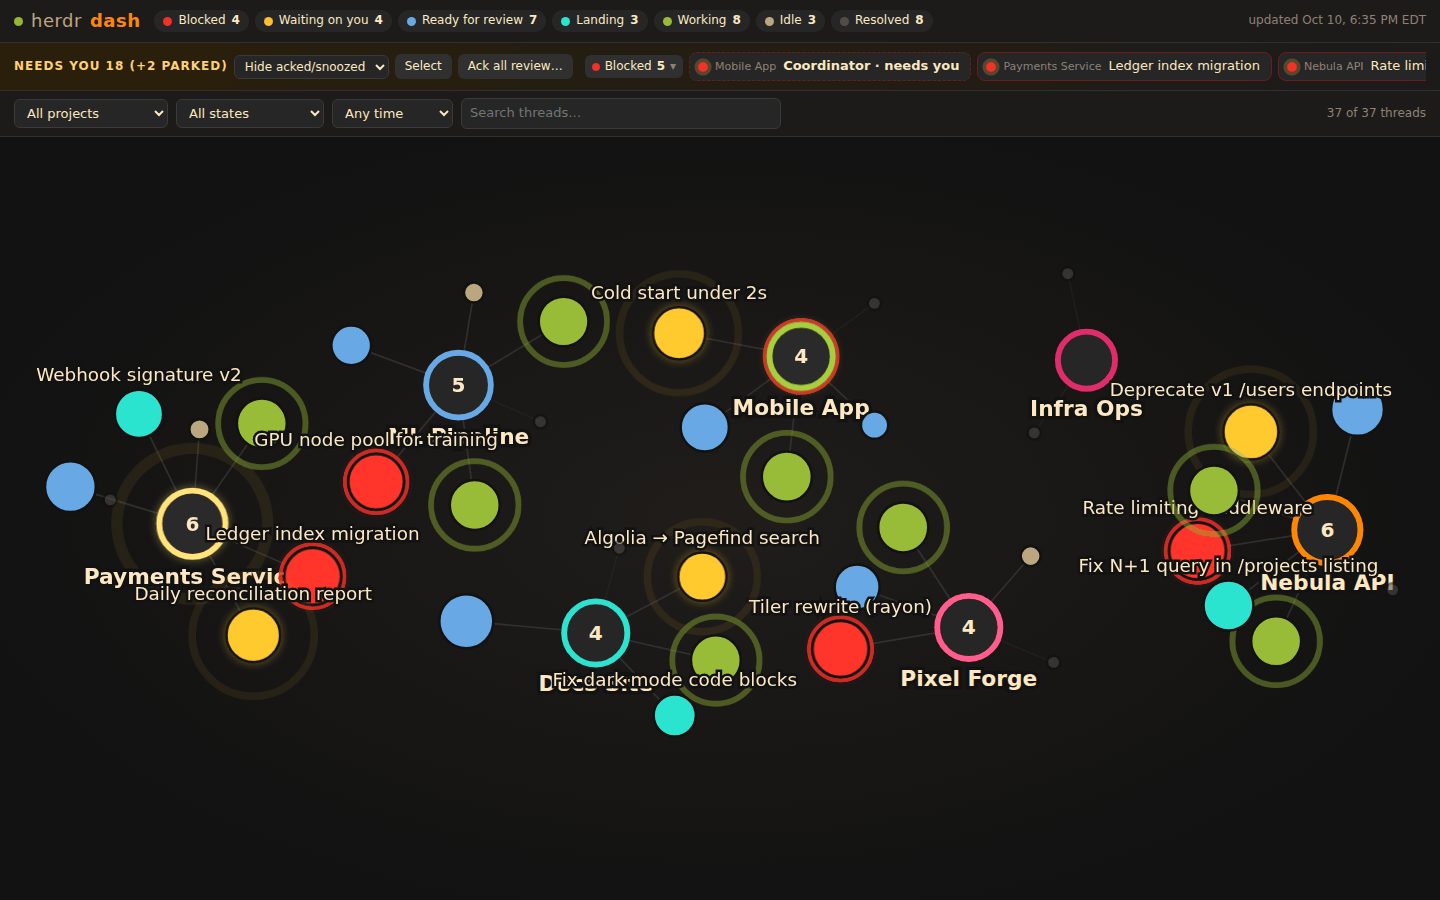
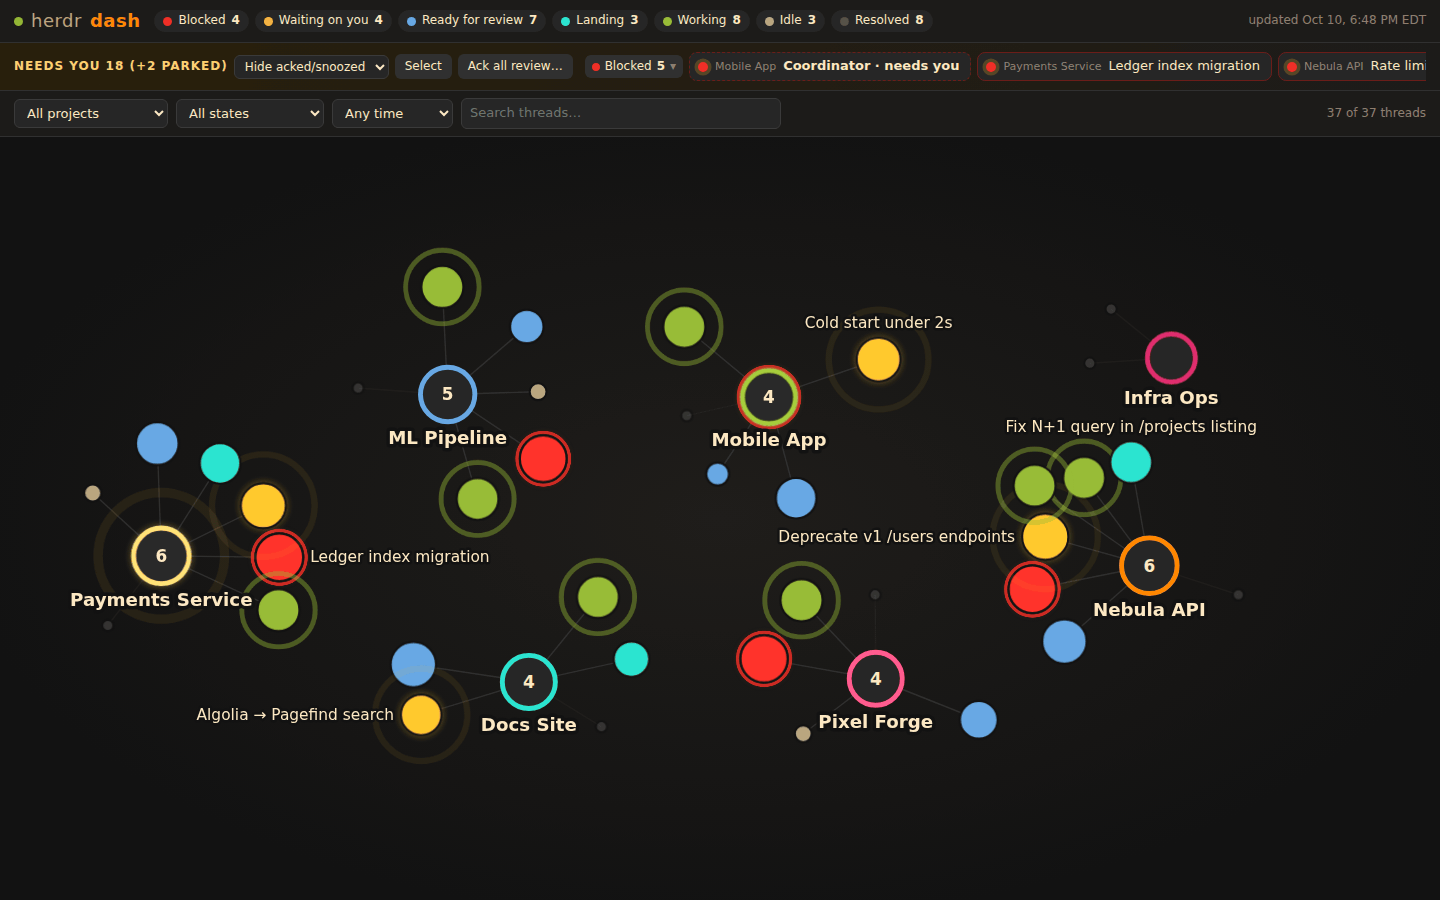
Graph labels: project names on top and never covered, few thread labels without collisions, more room between clusters

diff --git a/static/app.js b/static/app.js
@@ -78,6 +78,10 @@
   const root = svg.append("g");
   const linkG = root.append("g");
   const nodeG = root.append("g");
+  // Labels sit above every node; project names above thread labels.
+  const tlabelG = root.append("g").attr("class", "labels threads");
+  const hlabelG = root.append("g").attr("class", "labels hubs");
+  let hovered = null;
   let userZoomed = false;
   const zoom = d3.zoom().scaleExtent([0.15, 4]).on("zoom", (e) => {
     if (e.sourceEvent) userZoomed = true;
@@ -88,8 +92,11 @@
   const nodes = new Map(); // id -> node object, kept across updates for stable positions
   const sim = d3.forceSimulation()
     .force("link", d3.forceLink().id((d) => d.id).distance((l) => 34 + l.target.r * 2.2).strength(0.6))
-    .force("charge", d3.forceManyBody().strength((d) => (d.hub ? -420 : -38)))
-    .force("collide", d3.forceCollide().radius((d) => d.r + (d.hub ? 14 : 3)))
+    // A hub pushes harder the bigger its cluster, and harder still when
+    // there are few projects, so clusters do not overlap.
+    .force("charge", d3.forceManyBody().strength((d) => (d.hub ? -(320 + 45 * (d.size || 0)) * (hubCount() <= 8 ? 1.3 : 1) : -38)))
+    .force("collide", d3.forceCollide().radius((d) => (d.hub ? Math.max(d.r + 14, (d.lw || 0) * 0.8) : d.r + 3)))
+    .force("labelRoom", labelRoom())
     .force("x", d3.forceX().strength(0.045))
     .force("y", d3.forceY().strength(0.06))
     .alphaDecay(0.035)
@@ -103,10 +110,13 @@
     const ns = [...nodes.values()];
     const pad = 40;
     // A project's name can be wider than its hub: keep the whole name in view.
-    nodeSel.select("text.name").each(function (d) { d.lw = this.getComputedTextLength() / 2; });
     const half = (d) => Math.max(d.r, (d.hub && d.lw) || 0);
-    const x0 = d3.min(ns, (d) => d.x - half(d)) - pad, x1 = d3.max(ns, (d) => d.x + half(d)) + pad;
-    const y0 = d3.min(ns, (d) => d.y - d.r) - pad, y1 = d3.max(ns, (d) => d.y + d.r + 18) + pad;
+    // Thread labels too, so none is cut at the edge.
+    const labs = ns.filter((d) => d.lab).map((d) => d.lab);
+    const x0 = Math.min(d3.min(ns, (d) => d.x - half(d)), d3.min(labs, (b) => b.l) ?? Infinity) - pad;
+    const x1 = Math.max(d3.max(ns, (d) => d.x + half(d)), d3.max(labs, (b) => b.r) ?? -Infinity) + pad;
+    const y0 = Math.min(d3.min(ns, (d) => d.y - d.r), d3.min(labs, (b) => b.t) ?? Infinity) - pad;
+    const y1 = Math.max(d3.max(ns, (d) => d.y + d.r + 18), d3.max(labs, (b) => b.b) ?? -Infinity) + pad;
     const r = svg.node().getBoundingClientRect();
     const k = Math.min(2.2, r.width / (x1 - x0), r.height / (y1 - y0));
     const t = d3.zoomIdentity.scale(k).translate(-(x0 + x1) / 2, -(y0 + y1) / 2);
@@ -144,6 +154,79 @@
 
   let linkSel = linkG.selectAll("line");
   let nodeSel = nodeG.selectAll("g.node");
+  let hlabelSel = hlabelG.selectAll("text");
+  let tlabelSel = tlabelG.selectAll("text");
+  const hubCount = () => hlabelSel.size();
+
+  // ---------------------------------------------------------------- labels
+  // Boxes in graph units: a node's core, and a hub's name under it.
+  const HUB_FONT = 13, LABEL_FONT = 11;
+  const nodeBox = (n, pad = 0) => ({ l: n.x - n.r - pad, r: n.x + n.r + pad, t: n.y - n.r - pad, b: n.y + n.r + pad });
+  const hubBox = (h, pad = 0) => ({ l: h.x - (h.lw || 30) - pad, r: h.x + (h.lw || 30) + pad, t: h.y + h.r + 3 - pad, b: h.y + h.r + 4 + HUB_FONT * 1.3 + pad });
+  const overlaps = (a, b) => a.l < b.r && b.l < a.r && a.t < b.b && b.t < a.b;
+
+  // A force that keeps every other node, and other hubs' names, off a hub's
+  // name: project names stay readable however the clusters settle.
+  function labelRoom() {
+    let ns = [];
+    // Push a and b apart along the axis where they overlap least.
+    function part(a, ba, b, bb, share) {
+      const dx = Math.min(ba.r - bb.l, bb.r - ba.l), dy = Math.min(ba.b - bb.t, bb.b - ba.t);
+      if (dx <= 0 || dy <= 0) return;
+      const sx = (ba.l + ba.r) / 2 < (bb.l + bb.r) / 2 ? -1 : 1, sy = (ba.t + ba.b) / 2 < (bb.t + bb.b) / 2 ? -1 : 1;
+      const [mx, my] = dx < dy ? [sx * dx, 0] : [0, sy * dy];
+      a.vx += mx * share * 0.5; a.vy += my * share * 0.5;
+      b.vx -= mx * (1 - share) * 0.5; b.vy -= my * (1 - share) * 0.5;
+    }
+    function force() {
+      for (const h of ns) {
+        if (!h.hub) continue;
+        const hb = hubBox(h, 3);
+        for (const n of ns) {
+          if (n === h) continue;
+          part(h, hb, n, nodeBox(n, 2), n.hub ? 0.5 : 0.15);
+          if (n.hub && n.id > h.id) part(h, hb, n, hubBox(n, 3), 0.5);
+        }
+      }
+    }
+    force.initialize = (n) => (ns = n);
+    return force;
+  }
+
+  // Thread labels: the selected and hovered threads, then the few that need
+  // you most (blocked, waiting, landing). Each takes the first free spot
+  // around its node (above, below, right, left) that covers no node, no
+  // project name and no other label; with no free spot it is left out.
+  const MAX_LABELS = 8;
+  function placeLabels() {
+    const all = [...nodes.values()];
+    const taken = all.filter((n) => n.hub).map((h) => hubBox(h, 2));
+    const boxes = all.map((n) => [n, nodeBox(n, 2)]);
+    const forced = (n) => n.id === selected || n.id === hovered;
+    const rank = (n) => (forced(n) ? -1 : ORDER.indexOf(n.t.state));
+    const cands = all.filter((n) => !n.hub && n.t && (forced(n) || (n.t.needs_you && n.t.state !== "review")))
+      .sort((a, b) => rank(a) - rank(b) || ageSec(a.t) - ageSec(b.t));
+    for (const n of all) n.lab = null;
+    let shown = 0;
+    for (const n of cands) {
+      if (!forced(n) && shown >= MAX_LABELS) break;
+      const w = (n.tw || 60) + 4, h = LABEL_FONT * 1.35, g = 3;
+      const spots = [
+        { l: n.x - w / 2, r: n.x + w / 2, t: n.y - n.r - g - h, b: n.y - n.r - g },
+        { l: n.x - w / 2, r: n.x + w / 2, t: n.y + n.r + g, b: n.y + n.r + g + h },
+        { l: n.x + n.r + g, r: n.x + n.r + g + w, t: n.y - h / 2, b: n.y + h / 2 },
+        { l: n.x - n.r - g - w, r: n.x - n.r - g, t: n.y - h / 2, b: n.y + h / 2 },
+      ];
+      const free = (sp) => !taken.some((b) => overlaps(sp, b)) && !boxes.some(([m, b]) => m !== n && overlaps(sp, b));
+      const sp = spots.find(free) || (forced(n) ? spots[0] : null);
+      if (!sp) continue;
+      taken.push(sp);
+      n.lab = sp;
+      if (!forced(n)) shown++;
+    }
+    tlabelSel.classed("off", (d) => !d.lab)
+      .attr("x", (d) => (d.lab ? (d.lab.l + d.lab.r) / 2 : d.x)).attr("y", (d) => (d.lab ? d.lab.b - LABEL_FONT * 0.35 : d.y));
+  }
 
   function renderGraph(threads) {
     const projects = state.projects.filter((p) => !filters.project || p.slug === filters.project);
@@ -156,7 +239,7 @@
       const id = "hub:" + p.slug;
       const n = nodes.get(id) || { id, x: Math.cos(i) * 200, y: Math.sin(i) * 200 };
       const ts = per.get(p.slug) || [];
-      Object.assign(n, { hub: true, p, color: hubColor[p.slug], r: 14 + Math.sqrt((p.counts && Object.values(p.counts).reduce((a, b) => a + b, 0)) || ts.length) * 2.2, open: ts.filter((t) => t.state !== "resolved").length });
+      Object.assign(n, { hub: true, p, size: ts.length, color: hubColor[p.slug], r: 14 + Math.sqrt((p.counts && Object.values(p.counts).reduce((a, b) => a + b, 0)) || ts.length) * 2.2, open: ts.filter((t) => t.state !== "resolved").length });
       want.push(n);
     });
     const hubIds = new Set(want.map((n) => n.id));
@@ -181,9 +264,9 @@
         g.append("circle").attr("class", "ring");
         g.append("circle").attr("class", "core").attr("r", 0);
         g.filter((d) => d.hub).append("text").attr("class", "count").attr("text-anchor", "middle").attr("dy", "0.35em");
-        g.append("text").attr("class", (d) => (d.hub ? "name" : "label")).attr("text-anchor", "middle");
         g.on("click", (e, d) => { e.stopPropagation(); d.hub ? hubClick(d) : select(d.id); })
-          .on("mouseenter", (e, d) => showTip(e, d)).on("mousemove", moveTip).on("mouseleave", hideTip)
+          .on("mouseenter", (e, d) => { hovered = d.id; placeLabels(); showTip(e, d); }).on("mousemove", moveTip)
+          .on("mouseleave", () => { hovered = null; placeLabels(); hideTip(); })
           .call(d3.drag().on("start", dragStart).on("drag", dragged).on("end", dragEnd));
         g.transition().duration(600).style("opacity", 1);
         return g;
@@ -198,8 +281,14 @@
     nodeSel.filter((d) => d.hub).select("text.count").attr("fill", (d) => d.color);
     nodeSel.select("circle.ring").attr("r", (d) => d.r);
     nodeSel.filter((d) => d.hub).select("text.count").text((d) => d.open || "");
-    nodeSel.select("text.name").attr("dy", (d) => d.r + 16).text((d) => d.p.name);
-    nodeSel.select("text.label").attr("dy", (d) => -d.r - 5).text((d) => d.t && trunc(d.t.title, 34));
+    hlabelSel = hlabelG.selectAll("text.name").data(want.filter((d) => d.hub), (d) => d.id)
+      .join((enter) => enter.append("text").attr("class", "name").attr("text-anchor", "middle"))
+      .attr("data-key", (d) => d.id).text((d) => d.p.name)
+      .each(function (d) { d.lw = this.getComputedTextLength() / 2; });
+    tlabelSel = tlabelG.selectAll("text.label").data(want.filter((d) => !d.hub), (d) => d.id)
+      .join((enter) => enter.append("text").attr("class", "label off").attr("text-anchor", "middle"))
+      .attr("data-key", (d) => d.id).text((d) => trunc(d.t.title, 34))
+      .each(function (d) { d.tw = this.getComputedTextLength(); });
 
     sim.nodes(want);
     sim.force("link").links(links);
@@ -210,6 +299,8 @@
     if (fitted < 3 && sim.alpha() < 0.3) { fitted++; fit(true); }
     linkSel.attr("x1", (l) => l.source.x).attr("y1", (l) => l.source.y).attr("x2", (l) => l.target.x).attr("y2", (l) => l.target.y);
     nodeSel.attr("transform", (d) => `translate(${d.x},${d.y})`);
+    hlabelSel.attr("x", (d) => d.x).attr("y", (d) => d.y + d.r + 3 + HUB_FONT);
+    placeLabels();
   }
   function dragStart(e, d) { if (!e.active) sim.alphaTarget(0.2).restart(); d.fx = d.x; d.fy = d.y; }
   function dragged(e, d) { d.fx = e.x; d.fy = e.y; }
@@ -546,6 +637,7 @@
   function select(key) {
     selected = key;
     nodeSel.classed("selected", (d) => d.id === key);
+    placeLabels();
     clearInterval(detailTimer);
     screenES?.close();
     screenES = null;

diff --git a/static/style.css b/static/style.css
@@ -114,8 +114,11 @@ body.dock-bottom #work { flex-direction: column; }
 .node.hub .core { stroke-width: 3.5; }
 .node.hub text { fill: var(--bwhite); font-size: 13px; font-weight: 600; paint-order: stroke; stroke: var(--hard-black); stroke-width: 4px; pointer-events: none; }
 .node.hub .count { font-size: 12px; font-weight: 800; stroke: none; }
-.node.thread text.label { fill: var(--bwhite); font-size: 11px; paint-order: stroke; stroke: var(--hard-black); stroke-width: 3px; pointer-events: none; opacity: 0; transition: opacity .3s; }
-.node.thread:hover text.label, .node.thread.selected text.label, .node.thread.attn text.label { opacity: 1; }
+/* Labels live in their own layers above the nodes, with a dark halo. */
+.labels text { fill: var(--bwhite); pointer-events: none; paint-order: stroke; stroke: var(--hard-black); stroke-linejoin: round; stroke-opacity: .9; }
+.labels text.name { font-size: 13px; font-weight: 600; stroke-width: 5px; }
+.labels text.label { font-size: 11px; stroke-width: 3.5px; transition: opacity .2s; }
+.labels text.label.off { visibility: hidden; opacity: 0; }
 .node.thread.selected .core { stroke: var(--bwhite); stroke-width: 2.5; }
 .node.hub.selected .core { stroke-width: 5; filter: drop-shadow(0 0 6px currentColor); }
 .node.hub.blocked .ring, .node.hub.waiting .ring { stroke-width: 3; }
